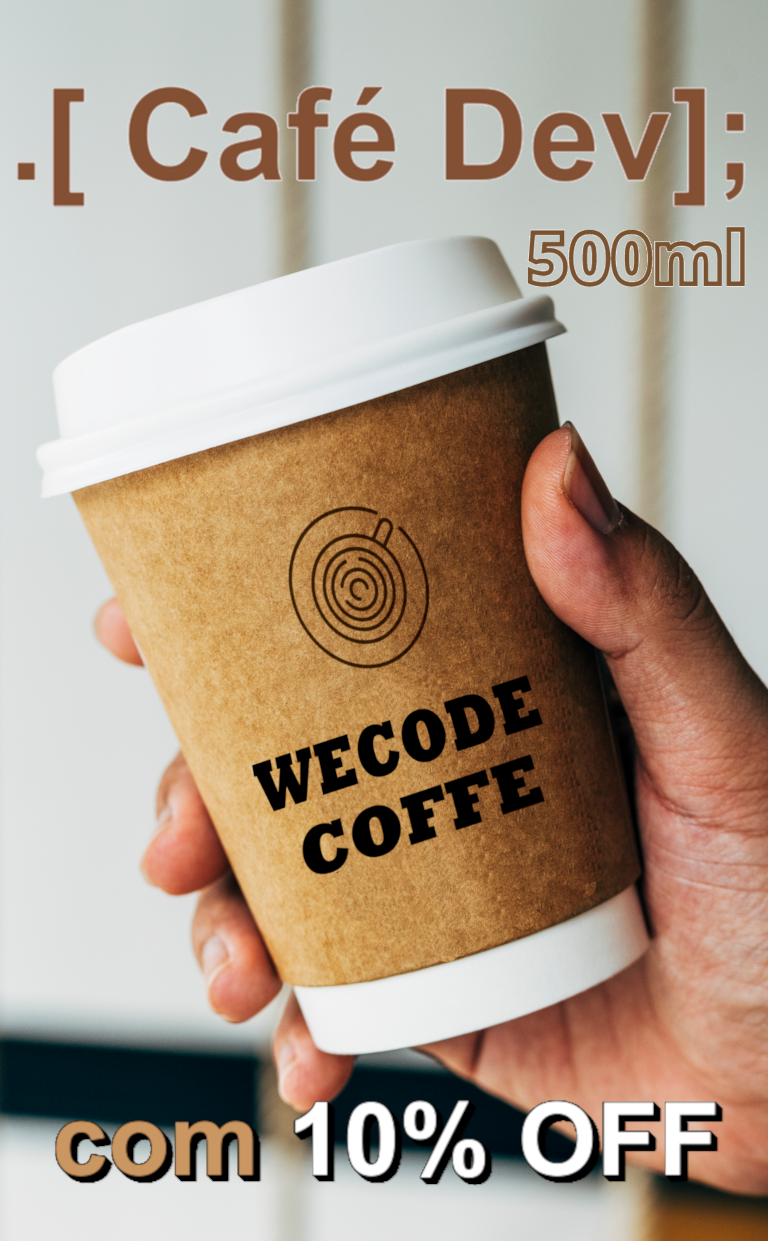
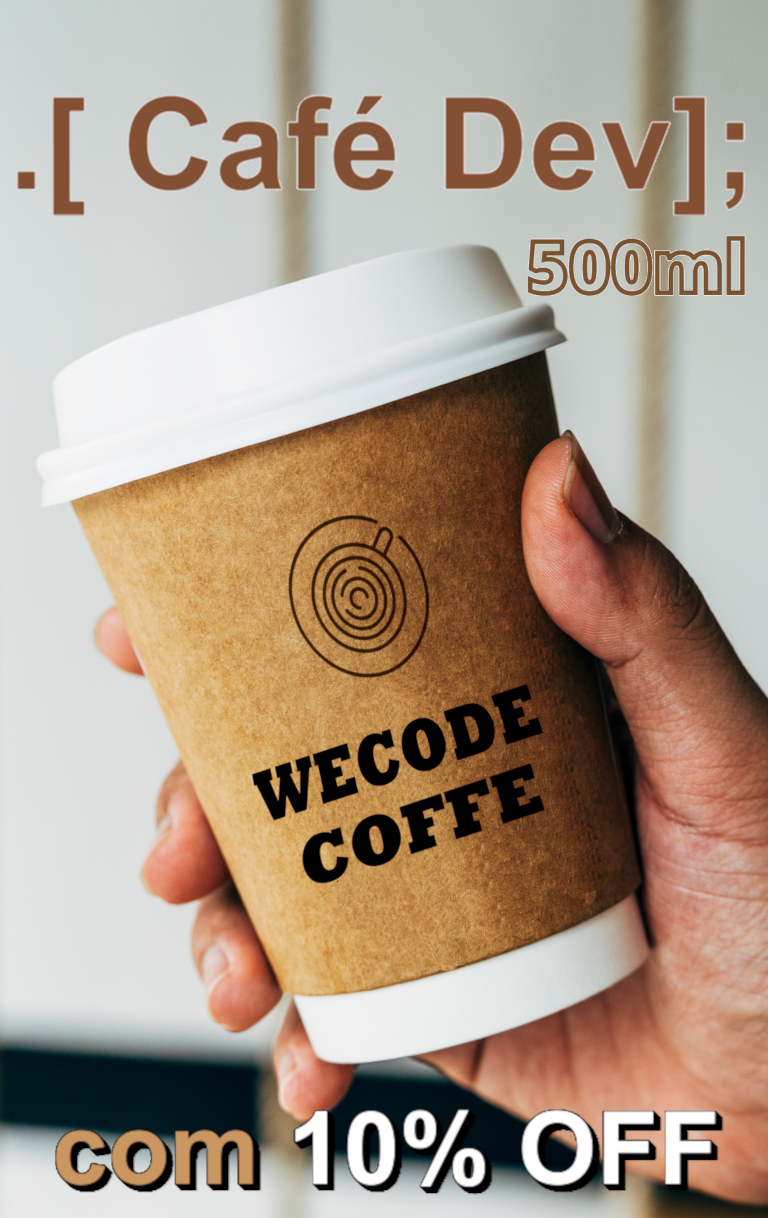
das

diff --git a/style.css b/style.css
@@ -18,10 +18,11 @@ body {
 .main-coffe-coffe-image{
     margin: auto;
     display: block;
-    max-height: 780px;
+    max-height: 790px;
     max-width: 390px;
     border-radius: 10px;
     background-color: black;
+    
 }
 /*-------------------*/
 /*main-coffe-coffe*/
@@ -46,7 +47,9 @@ body {
 .main-coffe-carrosel img{
     object-fit: cover;
     max-height: 790.5px;
-    min-width: 390px;
+    min-width: 300px;
+    background-color: black;
+
 }
 
 /*main-coffe-carrosel-container*/

diff --git a/index.html b/index.html
@@ -88,7 +88,7 @@
             </div>
             <div class="main-knowmore">
                 <div class="main-knowmore-text">
-                    <h1>Coonheça mais</h1>
+                    <h1>Conheça mais</h1>
                     <p>Fique por dentro de tudo que acontece no universo cafeeiro</p>
                 </div>
                 <div class="main-knowmore-roll">
